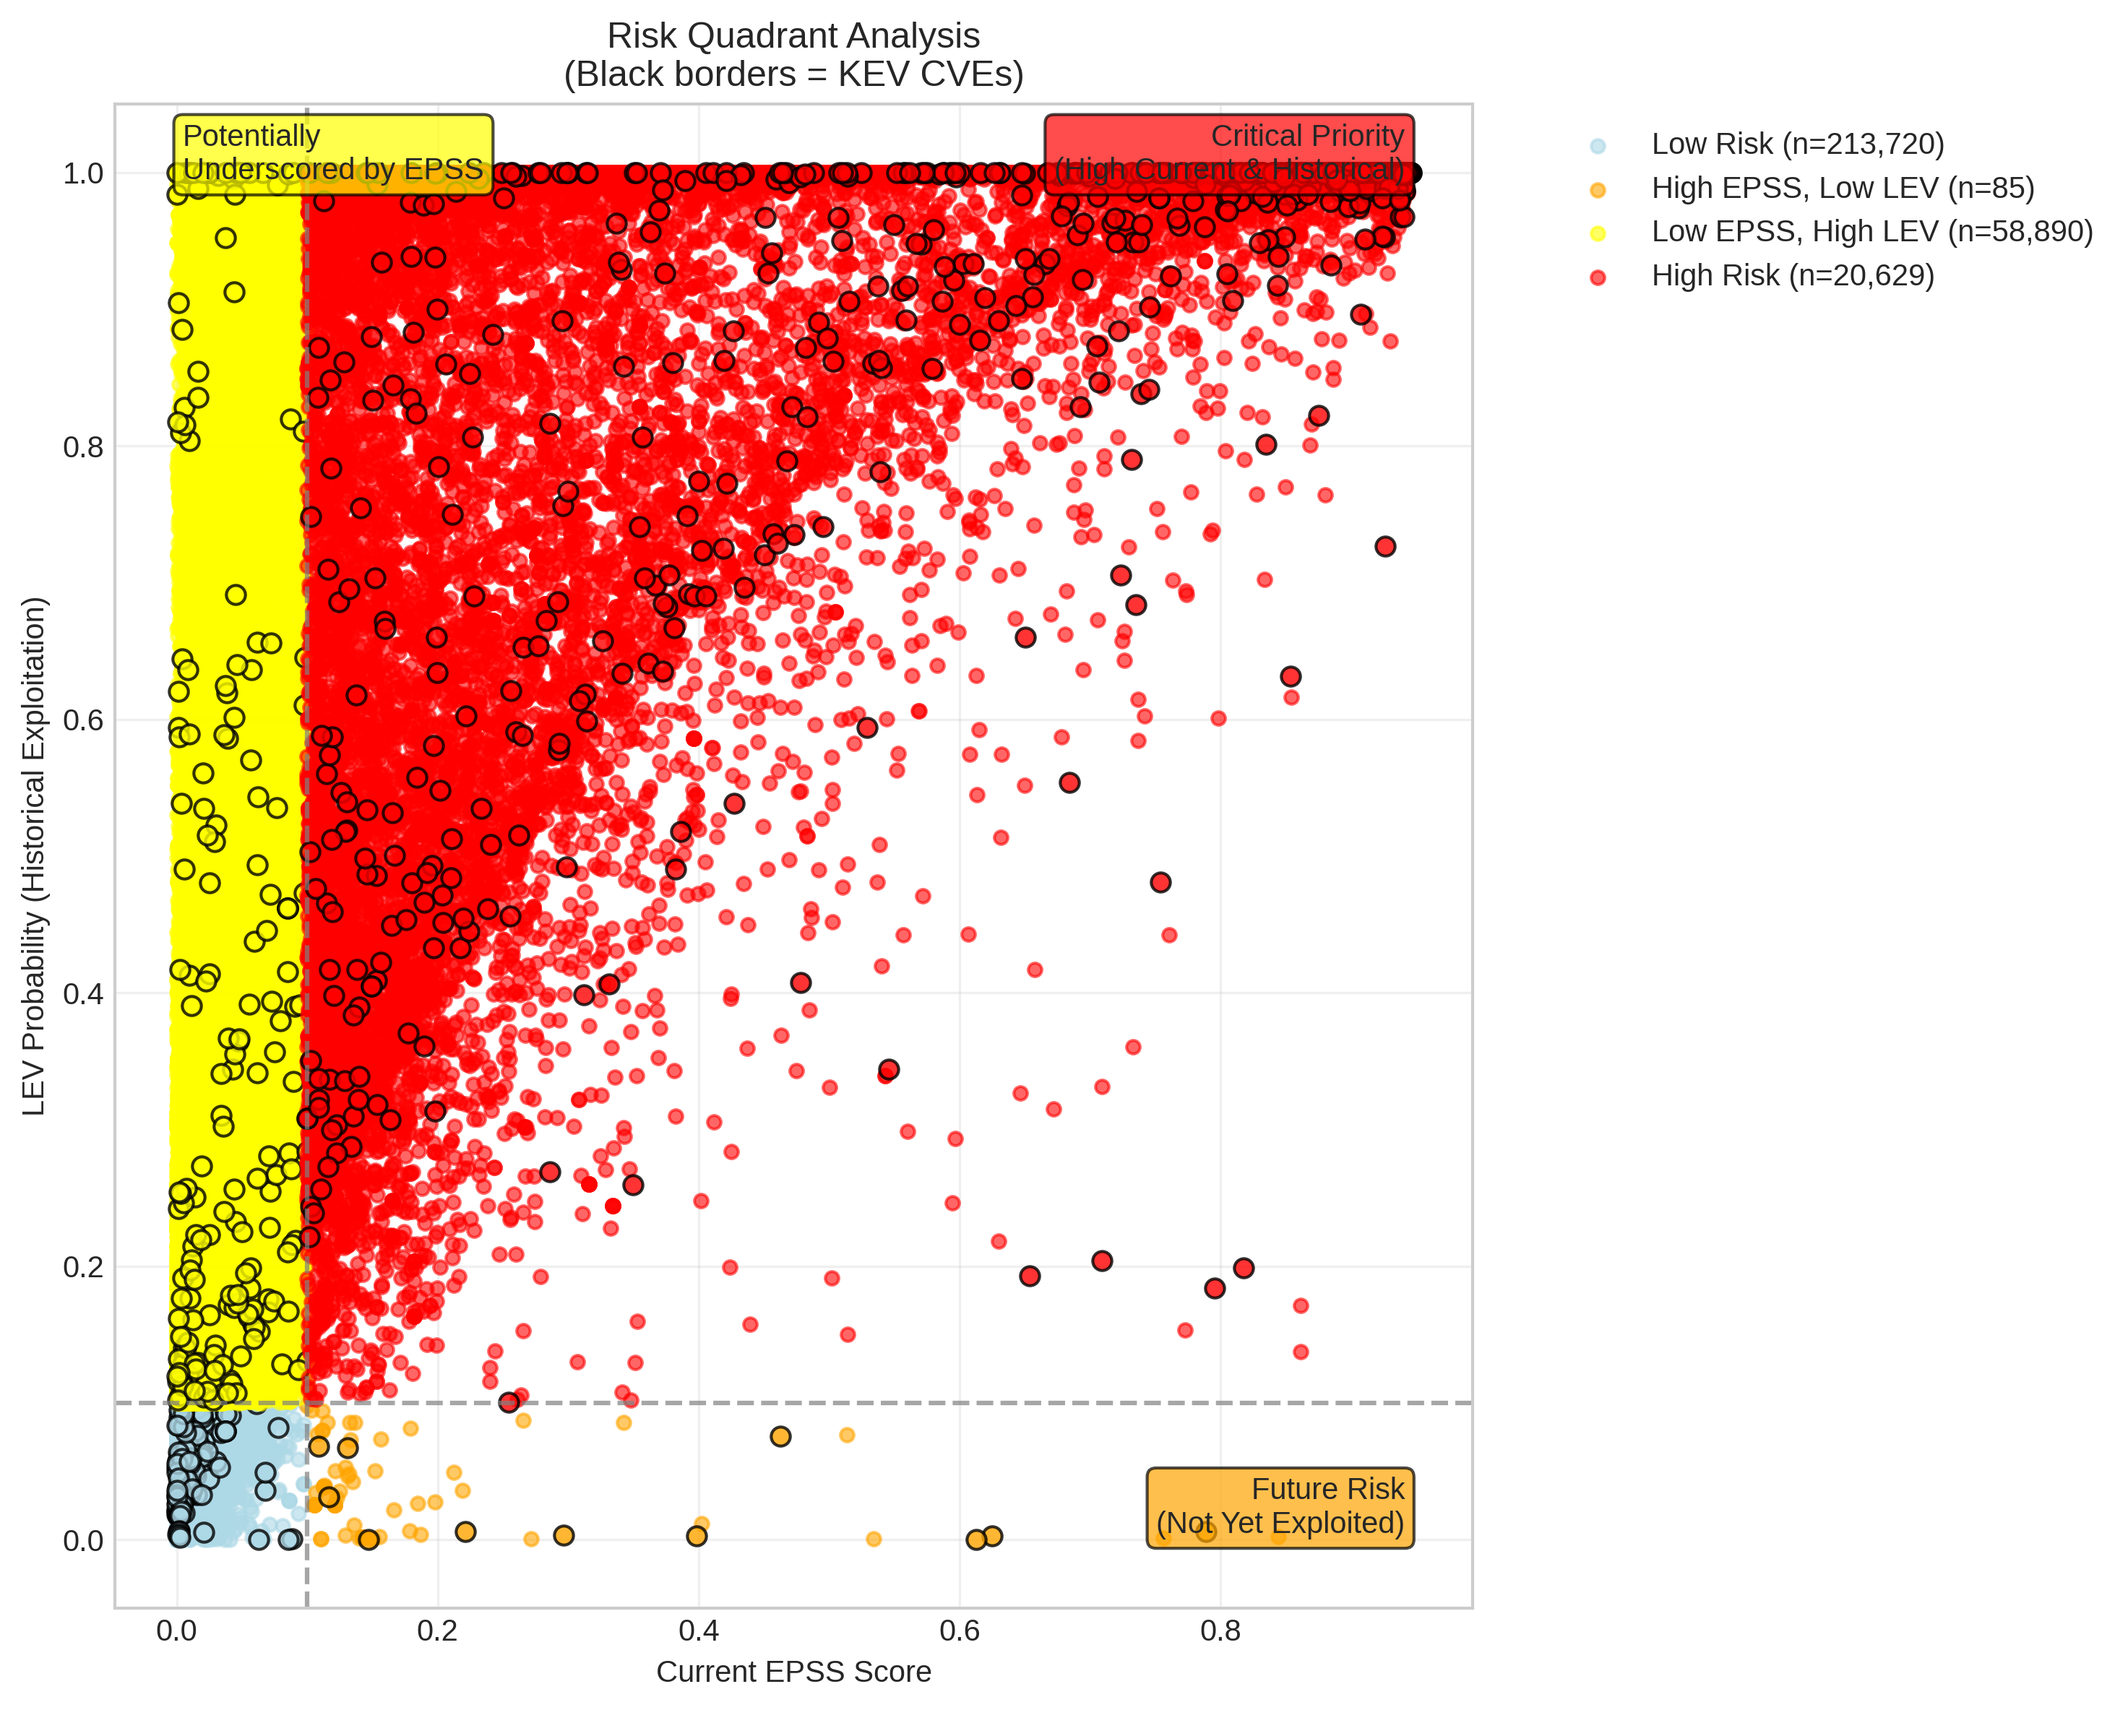
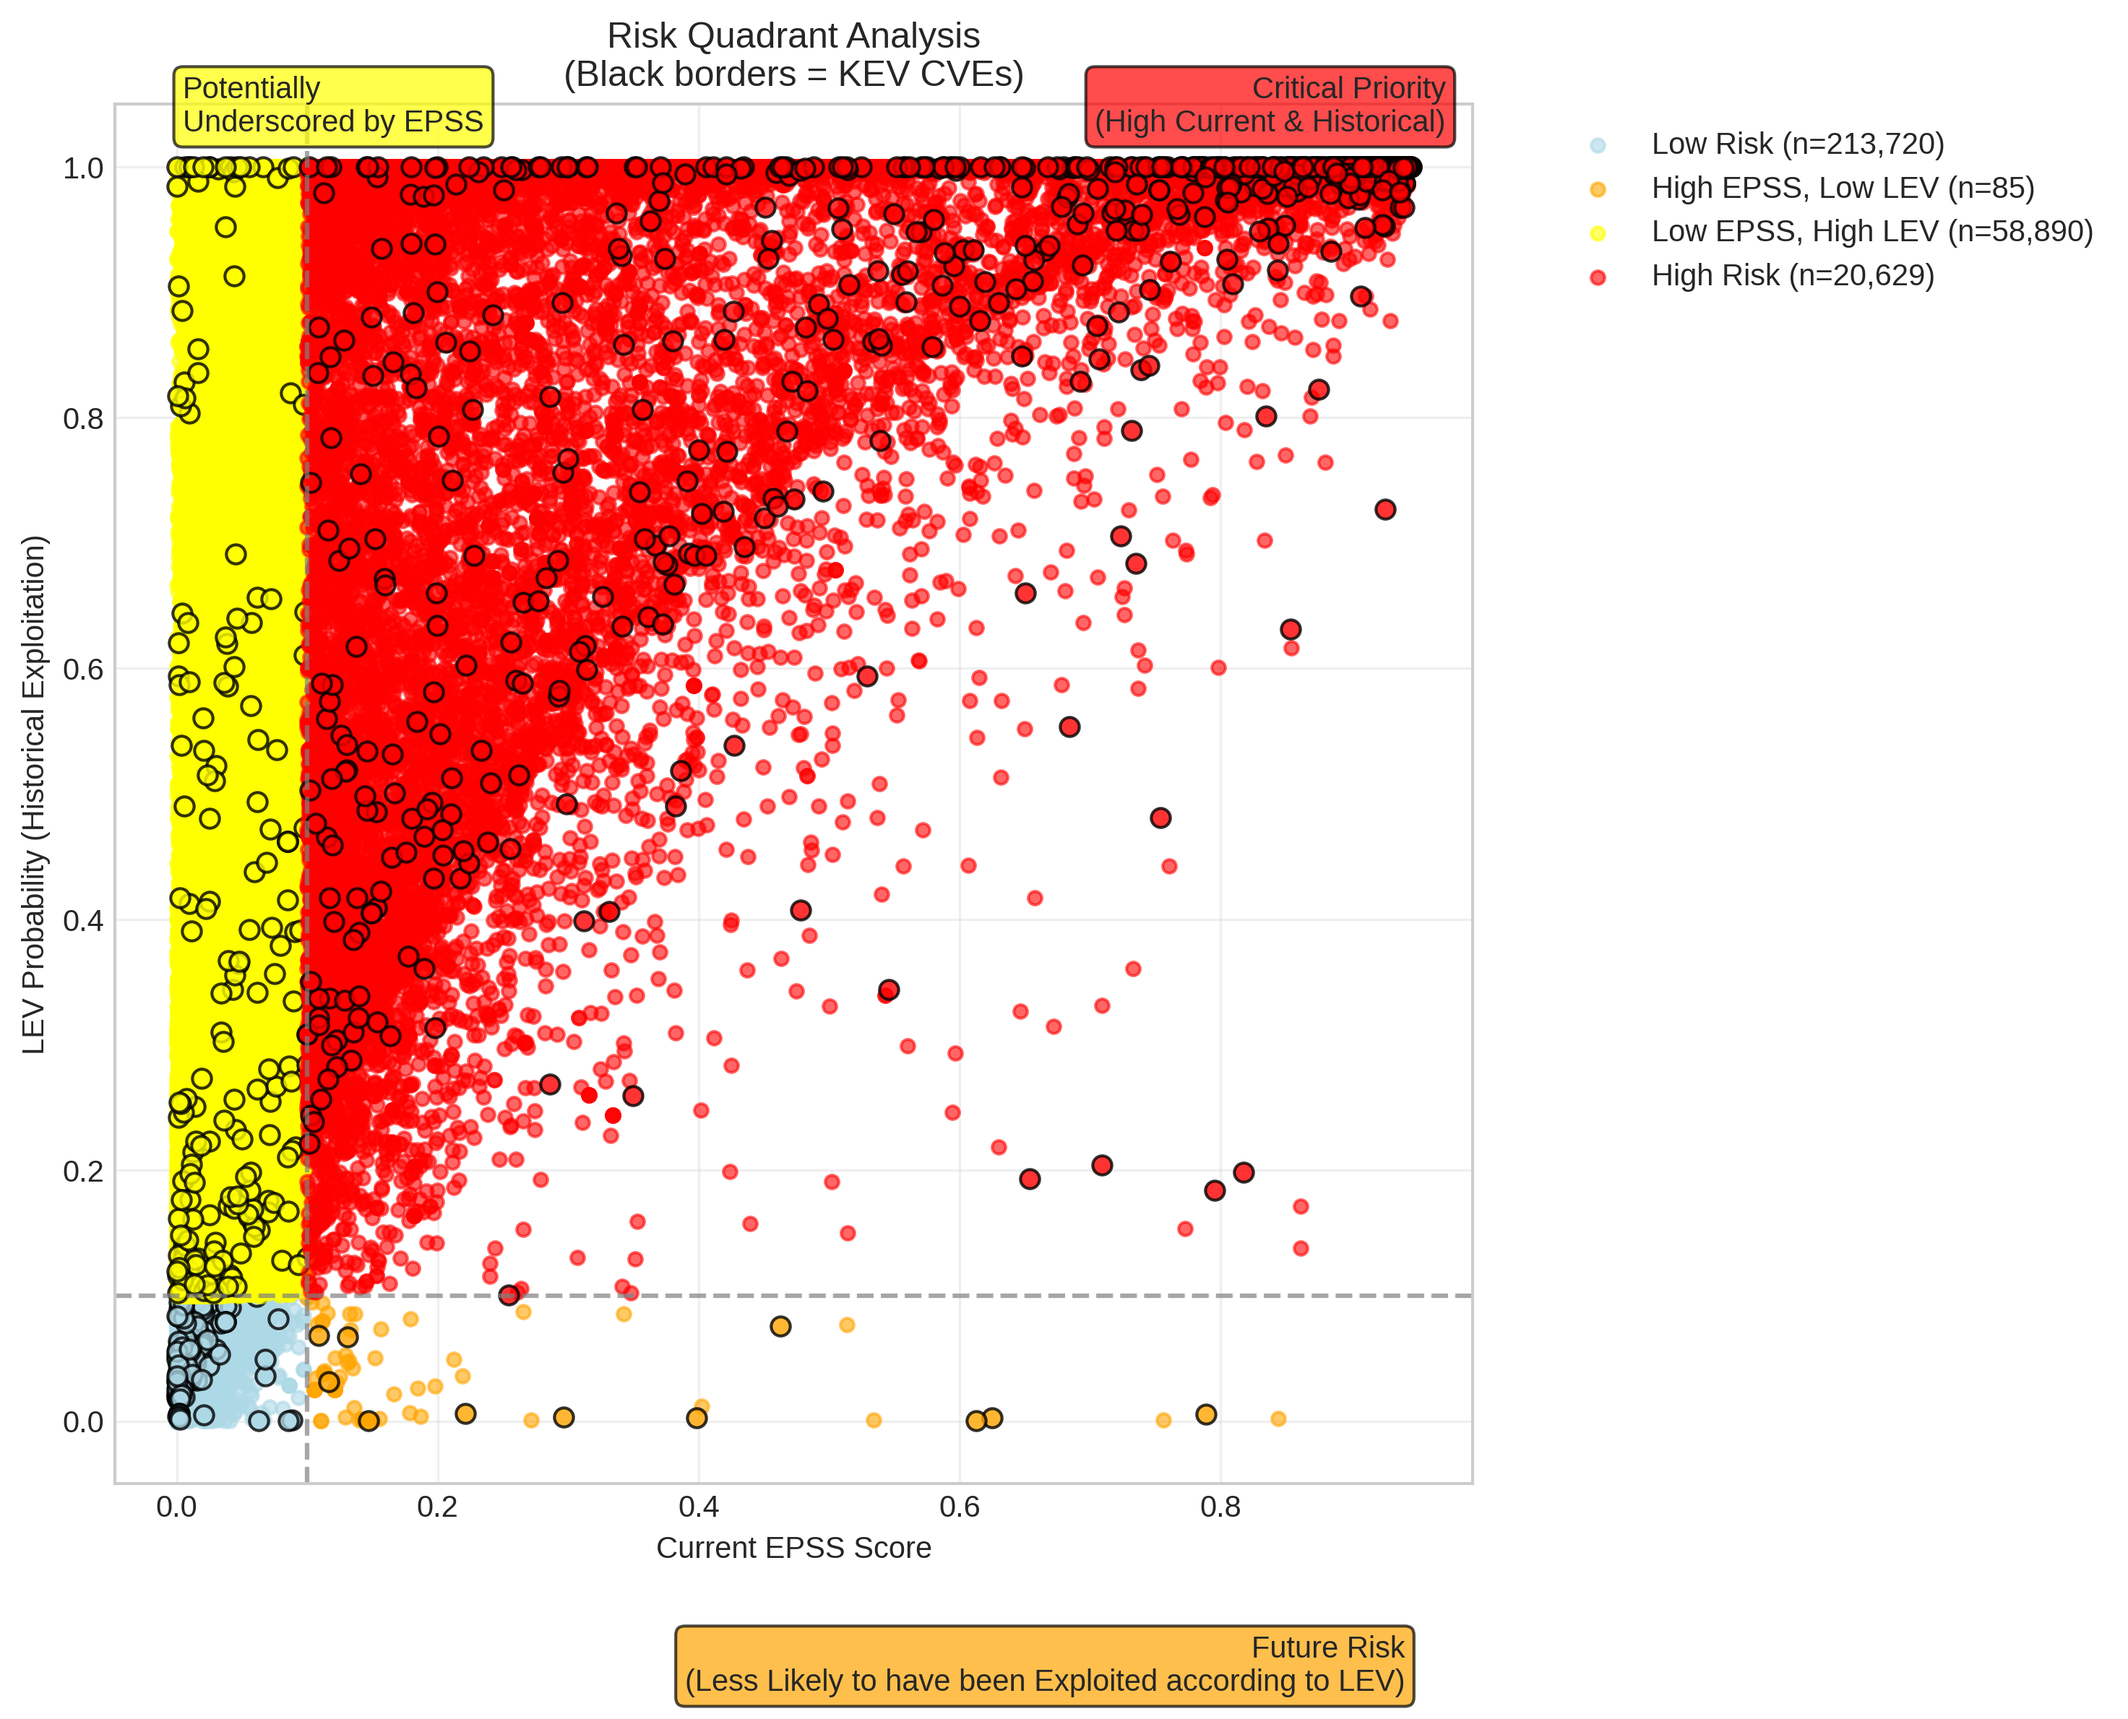
lev analyzer updates to plots

diff --git a/lev_analyzer.py b/lev_analyzer.py
@@ -230,7 +230,7 @@ class LEVAnalyzer:
         plt.tight_layout()
         return fig
     
-    def plot_temporal_evolution(self, sample_cves: int = 100, figsize: tuple = (12, 8)):
+    def plot_temporal_evolution(self, figsize: tuple = (12, 8)):
         """
         5. Temporal evolution: How LEV and peak EPSS relate over time.
         
@@ -244,11 +244,7 @@ class LEVAnalyzer:
         if len(df) == 0:
             print("No valid first_epss_date data found")
             return None
-        
-        # Sample for performance
-        if len(df) > sample_cves:
-            df = df.sample(n=sample_cves, random_state=42)
-        
+             
         fig, (ax1, ax2) = plt.subplots(2, 1, figsize=figsize, sharex=True)
         
         # Plot 1: LEV probability over time
@@ -262,7 +258,7 @@ class LEVAnalyzer:
         
         ax1.set_ylabel('LEV Probability')
         ax1.set_title('Temporal Evolution of Vulnerability Risk Scores')
-        ax1.legend()
+        ax1.legend(loc='upper right', frameon=True, fancybox=True, shadow=True)
         ax1.grid(True, alpha=0.3)
         
         # Plot 2: Peak EPSS over time
@@ -273,7 +269,7 @@ class LEVAnalyzer:
         
         ax2.set_xlabel('First EPSS Date')
         ax2.set_ylabel('Peak EPSS Score')
-        ax2.legend()
+        ax2.legend(loc='upper right', frameon=True, fancybox=True, shadow=True)
         ax2.grid(True, alpha=0.3)
         
         plt.tight_layout()
@@ -368,11 +364,11 @@ class LEVAnalyzer:
         ax.axvline(x=epss_threshold, color='gray', linestyle='--', alpha=0.7)
         
         # Add quadrant labels
-        ax.text(0.05, 0.95, 'Potentially\nUnderscored by EPSS', transform=ax.transAxes, 
+        ax.text(0.05, 0.98, 'Potentially\nUnderscored by EPSS', transform=ax.transAxes, 
                 bbox=dict(boxstyle="round,pad=0.3", facecolor="yellow", alpha=0.7))
-        ax.text(0.95, 0.05, 'Future Risk\n(Not Yet Exploited)', transform=ax.transAxes, ha='right',
+        ax.text(0.95, -0.15, 'Future Risk\n(Less Likely to have been Exploited according to LEV)', transform=ax.transAxes, ha='right',
                 bbox=dict(boxstyle="round,pad=0.3", facecolor="orange", alpha=0.7))
-        ax.text(0.95, 0.95, 'Critical Priority\n(High Current & Historical)', transform=ax.transAxes, ha='right',
+        ax.text(0.98, 0.98, 'Critical Priority\n(High Current & Historical)', transform=ax.transAxes, ha='right',
                 bbox=dict(boxstyle="round,pad=0.3", facecolor="red", alpha=0.7))
         
         ax.set_xlabel('Current EPSS Score')
@@ -660,7 +656,7 @@ The analysis demonstrates that:
 ### Plot 1: EPSS vs LEV Scatter
 - **Purpose:** Visualize relationship between current and historical risk indicators
 - **Insight:** Identifies complementary risk assessment capabilities
-- **Sample Size:** {min(10000, len(self.merged_df)):,} CVEs (sampled for performance)
+
 
 ### Plot 2: LEV Recall Curve
 - **Purpose:** Evaluate LEV's ability to capture known exploited vulnerabilities
@@ -680,7 +676,7 @@ The analysis demonstrates that:
 ### Plot 5: Temporal Evolution
 - **Purpose:** Analyze how risk scores relate to vulnerability discovery timing
 - **Insight:** Understanding temporal patterns in exploitation
-- **Sample Size:** {min(100, len(self.merged_df)):,} CVEs (sampled for clarity)
+
 
 ### Plot 6: Composite Effectiveness
 - **Purpose:** Demonstrate value of combined scoring methodology

diff --git a/analysis/lev_analysis_plots/analysis_report.md b/analysis/lev_analysis_plots/analysis_report.md
@@ -1,6 +1,6 @@
 # LEV Analysis Comprehensive Report
 
-**Generated on:** 2025-06-03 08:54:29
+**Generated on:** 2025-06-06 08:32:10
 
 ## Executive Summary
 
@@ -52,6 +52,7 @@ This scatter plot reveals the relationship between current EPSS scores and LEV p
 ![method_agreement_matrix](method_agreement_matrix.png)
 
 **Key Insights:**
+
 - HIGH EPSS: > 0.1, HIGH LEV: > 0.1
 - EPSS-LEV correlation: 0.695
 - CVEs identified by both methods (high agreement): 20,629
@@ -80,8 +81,6 @@ This scatter plot reveals the relationship between current EPSS scores and LEV p
 ## High-Risk CVE Analysis by Threshold
 
 ### Summary 
-
-
 #### Threshold ≥ 0.1
 
 - **EPSS High-Risk CVEs:** 20,714 (7.06% of total)
@@ -210,7 +209,7 @@ The analysis demonstrates that:
 ### Plot 1: EPSS vs LEV Scatter
 - **Purpose:** Visualize relationship between current and historical risk indicators
 - **Insight:** Identifies complementary risk assessment capabilities
-- **Sample Size:** 10,000 CVEs (sampled for performance)
+
 
 ### Plot 2: LEV Recall Curve
 - **Purpose:** Evaluate LEV's ability to capture known exploited vulnerabilities
@@ -230,7 +229,7 @@ The analysis demonstrates that:
 ### Plot 5: Temporal Evolution
 - **Purpose:** Analyze how risk scores relate to vulnerability discovery timing
 - **Insight:** Understanding temporal patterns in exploitation
-- **Sample Size:** 100 CVEs (sampled for clarity)
+
 
 ### Plot 6: Composite Effectiveness
 - **Purpose:** Demonstrate value of combined scoring methodology
@@ -244,6 +243,6 @@ The analysis demonstrates that:
 
 ---
 
-**Report Generation Completed:** 2025-06-03 08:54:36
+**Report Generation Completed:** 2025-06-06 08:32:20
 
 *This report was generated using the LEV Analysis and Visualization Suite. For questions or additional analysis requests, please refer to the methodology documentation.*
